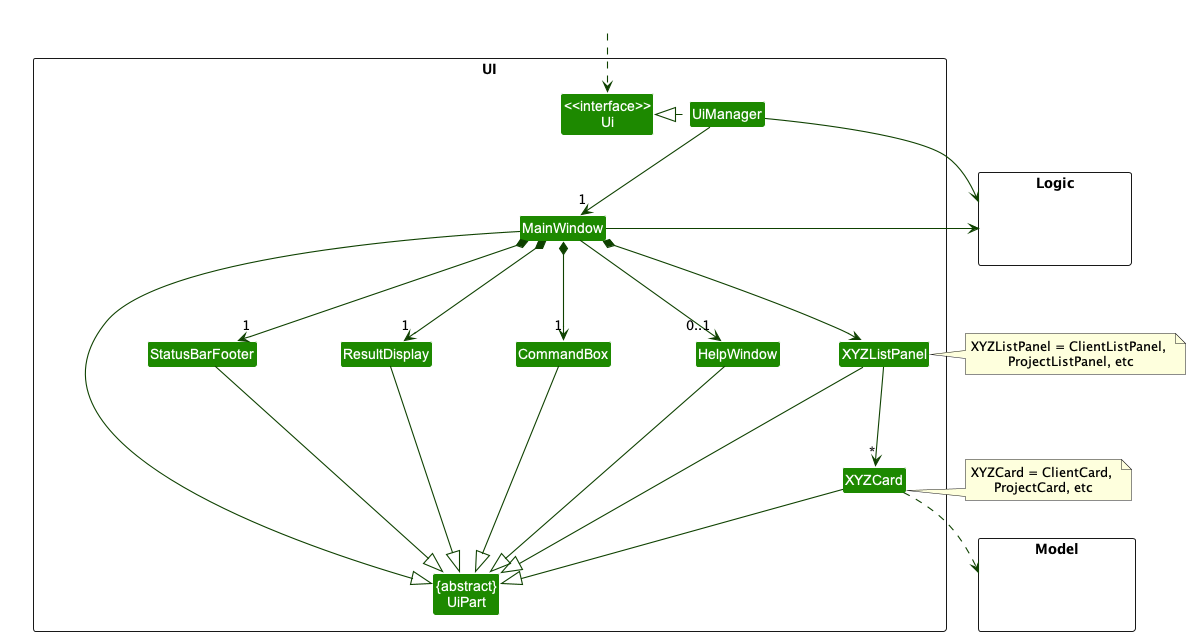
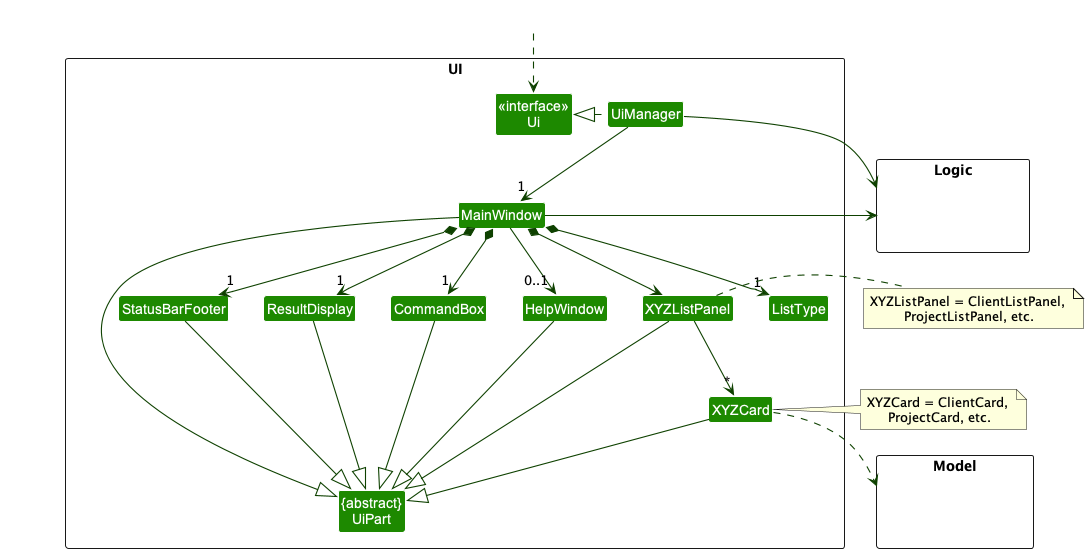
Add delete command diagrams, minor DG changes
Update UiClassDiagram to include ListType label

DG updates:
* Fix some capitalisation
* Reformat user stories table

diff --git a/docs/DeveloperGuide.md b/docs/DeveloperGuide.md
@@ -299,13 +299,18 @@ The sequence diagram shows how the various components interact with each other w
 
 Users have the ability to list all their projects. A summary of how many OVERDUE, DONE, and NOT DONE projects is also displayed.
 
+
 #### Implementation
 
 The sequence diagram shows how the various components interact with each other when `list-project` is entered by the user.
 <br>
 <img src="images/ListProjectSequenceDiagram.png" width="600" />
 
-### Clearing clients
+### Deleting a Client
+
+Users have the ability to delete a particular client.
+
+### Clearing Clients
 
 Users have the ability to clear all their clients.
 
@@ -315,7 +320,7 @@ The sequence diagram shows how the various components interact with each other w
 <br>
 <img src="images/ClearClientSequenceDiagram.png" width="600" />
 
-### Clearing projects
+### Clearing Projects
 
 Users have the ability to clear all their projects.
 
@@ -357,48 +362,48 @@ The sequence diagram shows how the various components interact with each other w
 
 Priorities: High (must have) - `* * *`, Medium (nice to have) - `* *`, Low (unlikely to have) - `*`
 
-| Priority | As a …                                    | I want to …                     | So that I can…                                                        |
-| -------- | ------------------------------------------ | ------------------------------ | ---------------------------------------------------------------------- |
-| `* *` | artist with many ongoing commissioned projects to keep track of | view my current commissioned projects in order of deadline recency | not miss any deadlines |
-| `*` | artist inexperienced in command line commands | use commands that are closer to natural language | better understand and more effectively use commands |
-| `* * *` | artist | add a deadline to a project | record when a project needs to be done |
-| `*` | artist working with commissions | import a list of clients from a CSV file | use an editable format |
-| `* *` | first-time user of the application | view a guide on how to use the app | learn how to use the app |
-| `*` | artist who wants to increase my earnings | add a large number of commissioned projects at any time | increase my income |
-| `*` | expert in using the application | setup shortcuts for commands I often use | execute them quickly |
-| `* *` | artist who does not want to be overwhelmed by too many ongoing commission projects | quickly see how many ongoing projects I have | deliver for my clients |
-| `* *` | artist | tag clients in the list | filter by the tags if necessary |
-| `* *` | artist | tag projects in the list | filter by the tags if necessary |
-| `*` | inexperienced user | undo commands | remedy mistakes |
-| `* *` | first-time user of the application | see sample data in the application | understand what the application can do |
-| `* * *` | artist | add clients to the application | keep track of all of my clients |
-| `* * *` | artist | remove clients from my list | keep the list accurate |
-| `* *` | artist | edit client info | keep client info up to date in case of changes |
-| `* *` | artist | edit project info | keep project info up to date in case of changes |
-| `* *` | artist who wants to know which of my ongoing projects are most lucrative | quickly sort my ongoing projects based on commission size | prioritize higher commissioned projects |
-| `* *` | artist | add to a project how much money it will make me | know the profit of my projects |
-| `* *` | artist | search for clients using keywords | find specific clients quickly |
-| `* *` | artist ready to start using the application | purge any sample data on the application | start entering my own data onto the application |
-| `*` | artist | quickly see how many times a specific client has commissioned me for a project before | know if clients are returning |
-| `* *` | artist | see how much profit a client has made me so far | know which client is making me the most profit |
-| `* *` | artist | sort clients by how much profit they have made me so far | know which clients are making me the most profit |
-| `* *` | artist | sort clients by the number of times they have commissioned me before | know if a given client and I have a long-standing relationship |
-| `* * *`| artist | add contact info to clients | know how to reach them if needed |
-| `*` | artist | blacklist certain clients | know who to avoid |
-| `* *` | artist | link projects to clients | know what projects are for what clients |
-| `* *` | artist | get asked if I am sure I want to delete an ongoing project | be prevented from accidentally deleting an ongoing project |
-| `* * *`| artist | mark a certain project as done | know it is no longer ongoing |
-| `*` | user | easily generate text to share client information | send it to someone else if required |
-| `* * *` | artist | unmark a project as done | ensure my list is accurate in case I accidentally marked a project as done |
-| `*` | artist | add dates in different formats without being asked to give it in a certain format | not have to memorize providing dates in a certain format |
-| `* *`| artist | see all projects due within a specific time period | know what is due at different times and plan my work |
-| `*` | artist | have the application convert different time zones to my local one and state which country the client is from | add times for clients from various countries and not have to do the conversion myself |
-| `* *` | artist | see all tags I have used | know what tags to use to find clients/projects |
-| `*` | experienced user | directly edit the data file | change stored information without having to open the app |
-| `* *` | artist | find specific clients | see their information |
-| `* *`| artist | find specific projects | see their information |
-| `* *` | artist | search for projects using keywords | find specific projects quickly |
-| `* *` | busy artist | see what projects are due in a certain timeframe | better plan my schedule |
+| Priority | As a …                                                                            | I want to …                                                                                                 | So that I can…                                                                       |
+|----------|------------------------------------------------------------------------------------|--------------------------------------------------------------------------------------------------------------|---------------------------------------------------------------------------------------|
+| `* *`    | artist with many ongoing commissioned projects to keep track of                    | view my current commissioned projects in order of deadline recency                                           | not miss any deadlines                                                                |
+| `*`      | artist inexperienced in command line commands                                      | use commands that are closer to natural language                                                             | better understand and more effectively use commands                                   |
+| `* * *`  | artist                                                                             | add a deadline to a project                                                                                  | record when a project needs to be done                                                |
+| `*`      | artist working with commissions                                                    | import a list of clients from a CSV file                                                                     | use an editable format                                                                |
+| `* *`    | first-time user of the application                                                 | view a guide on how to use the app                                                                           | learn how to use the app                                                              |
+| `*`      | artist who wants to increase my earnings                                           | add a large number of commissioned projects at any time                                                      | increase my income                                                                    |
+| `*`      | expert in using the application                                                    | setup shortcuts for commands I often use                                                                     | execute them quickly                                                                  |
+| `* *`    | artist who does not want to be overwhelmed by too many ongoing commission projects | quickly see how many ongoing projects I have                                                                 | deliver for my clients                                                                |
+| `* *`    | artist                                                                             | tag clients in the list                                                                                      | filter by the tags if necessary                                                       |
+| `* *`    | artist                                                                             | tag projects in the list                                                                                     | filter by the tags if necessary                                                       |
+| `*`      | inexperienced user                                                                 | undo commands                                                                                                | remedy mistakes                                                                       |
+| `* *`    | first-time user of the application                                                 | see sample data in the application                                                                           | understand what the application can do                                                |
+| `* * *`  | artist                                                                             | add clients to the application                                                                               | keep track of all of my clients                                                       |
+| `* * *`  | artist                                                                             | remove clients from my list                                                                                  | keep the list accurate                                                                |
+| `* *`    | artist                                                                             | edit client info                                                                                             | keep client info up to date in case of changes                                        |
+| `* *`    | artist                                                                             | edit project info                                                                                            | keep project info up to date in case of changes                                       |
+| `* *`    | artist who wants to know which of my ongoing projects are most lucrative           | quickly sort my ongoing projects based on commission size                                                    | prioritize higher commissioned projects                                               |
+| `* *`    | artist                                                                             | add to a project how much money it will make me                                                              | know the profit of my projects                                                        |
+| `* *`    | artist                                                                             | search for clients using keywords                                                                            | find specific clients quickly                                                         |
+| `* *`    | artist ready to start using the application                                        | purge any sample data on the application                                                                     | start entering my own data onto the application                                       |
+| `*`      | artist                                                                             | quickly see how many times a specific client has commissioned me for a project before                        | know if clients are returning                                                         |
+| `* *`    | artist                                                                             | see how much profit a client has made me so far                                                              | know which client is making me the most profit                                        |
+| `* *`    | artist                                                                             | sort clients by how much profit they have made me so far                                                     | know which clients are making me the most profit                                      |
+| `* *`    | artist                                                                             | sort clients by the number of times they have commissioned me before                                         | know if a given client and I have a long-standing relationship                        |
+| `* * *`  | artist                                                                             | add contact info to clients                                                                                  | know how to reach them if needed                                                      |
+| `*`      | artist                                                                             | blacklist certain clients                                                                                    | know who to avoid                                                                     |
+| `* *`    | artist                                                                             | link projects to clients                                                                                     | know what projects are for what clients                                               |
+| `* *`    | artist                                                                             | get asked if I am sure I want to delete an ongoing project                                                   | be prevented from accidentally deleting an ongoing project                            |
+| `* * *`  | artist                                                                             | mark a certain project as done                                                                               | know it is no longer ongoing                                                          |
+| `*`      | user                                                                               | easily generate text to share client information                                                             | send it to someone else if required                                                   |
+| `* * *`  | artist                                                                             | unmark a project as done                                                                                     | ensure my list is accurate in case I accidentally marked a project as done            |
+| `*`      | artist                                                                             | add dates in different formats without being asked to give it in a certain format                            | not have to memorize providing dates in a certain format                              |
+| `* *`    | artist                                                                             | see all projects due within a specific time period                                                           | know what is due at different times and plan my work                                  |
+| `*`      | artist                                                                             | have the application convert different time zones to my local one and state which country the client is from | add times for clients from various countries and not have to do the conversion myself |
+| `* *`    | artist                                                                             | see all tags I have used                                                                                     | know what tags to use to find clients/projects                                        |
+| `*`      | experienced user                                                                   | directly edit the data file                                                                                  | change stored information without having to open the app                              |
+| `* *`    | artist                                                                             | find specific clients                                                                                        | see their information                                                                 |
+| `* *`    | artist                                                                             | find specific projects                                                                                       | see their information                                                                 |
+| `* *`    | artist                                                                             | search for projects using keywords                                                                           | find specific projects quickly                                                        |
+| `* *`    | busy artist                                                                        | see what projects are due in a certain timeframe                                                             | better plan my schedule                                                               |
 
 ### Use cases
 
